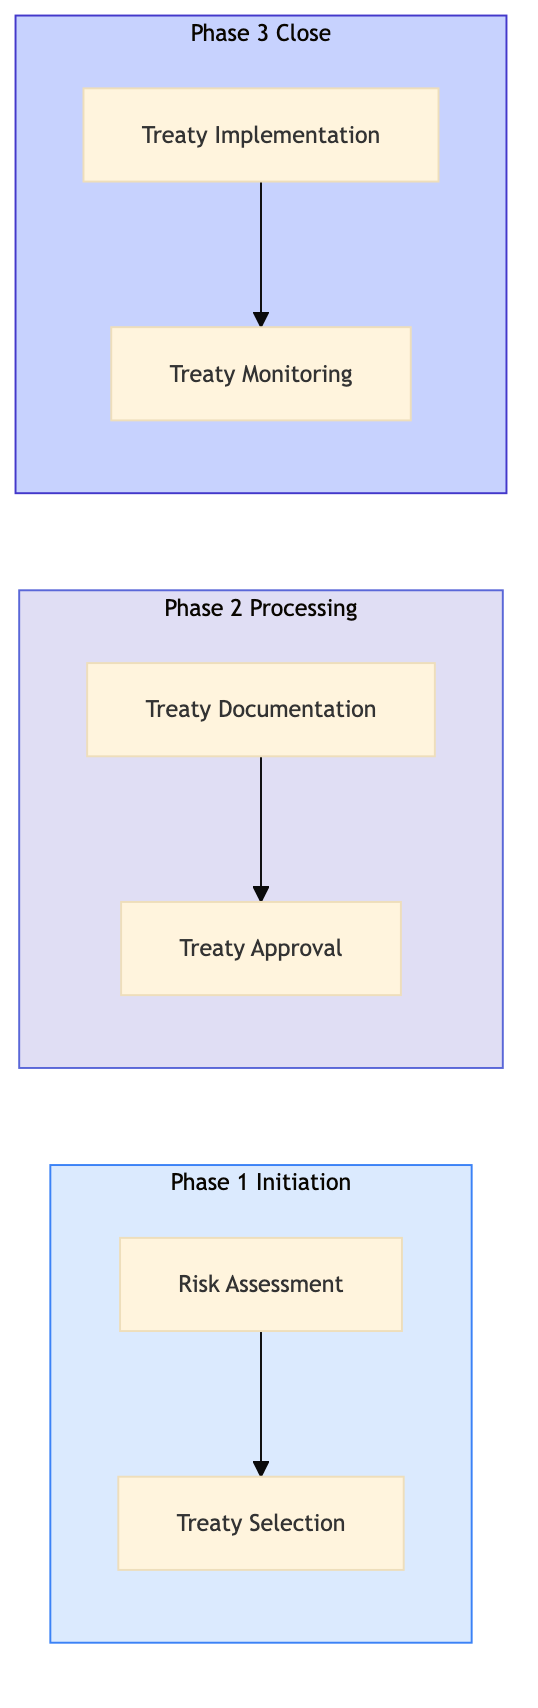
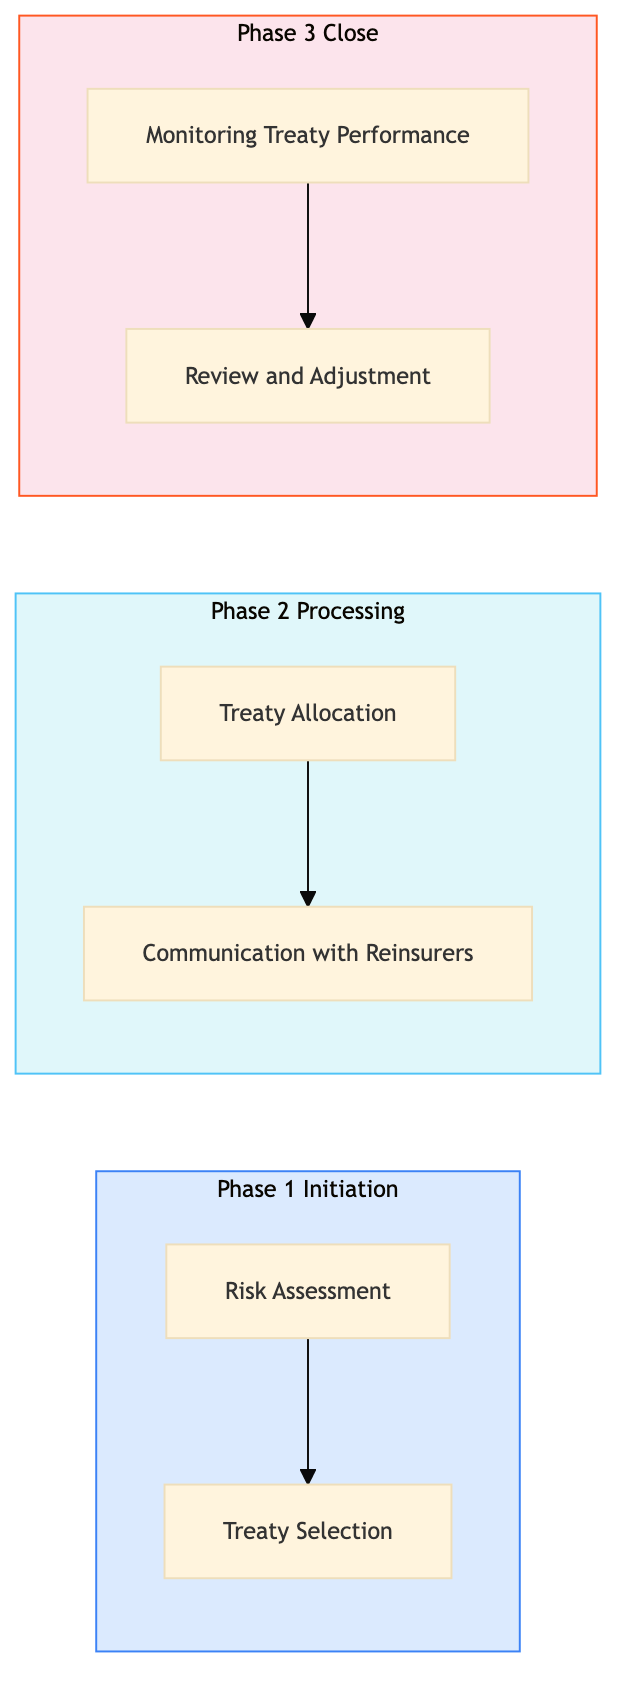
feat: add AAA-IN-PO-07 — Reinsurance Cession and Treaty Allocation

diff --git a/aaa-insurance/policy-administration/aaa-in-po-07.html b/aaa-insurance/policy-administration/aaa-in-po-07.html
@@ -23,40 +23,16 @@
     <div class="nav-l2-group">
       <a class="nav-l2-title" href="../../shared-membership/membership-enrolment/index.html">Membership Enrolment & Sales</a>
       <div class="nav-l3-list">
-        <a class="nav-l3" href="../../shared-membership/membership-enrolment/shared-mb-en-01.html">SHARED-MB-EN-01 &mdash; New Member Walk-In Enrolment (Branch)</a>
-        <a class="nav-l3" href="../../shared-membership/membership-enrolment/shared-mb-en-02.html">SHARED-MB-EN-02 &mdash; Online Membership Self-Enrolment (Web/Ap</a>
-        <a class="nav-l3" href="../../shared-membership/membership-enrolment/shared-mb-en-03.html">SHARED-MB-EN-03 &mdash; Phone Enrolment via Contact Centre</a>
-        <a class="nav-l3" href="../../shared-membership/membership-enrolment/shared-mb-en-04.html">SHARED-MB-EN-04 &mdash; Affiliate and Employer Group Enrolment</a>
-        <a class="nav-l3" href="../../shared-membership/membership-enrolment/shared-mb-en-05.html">SHARED-MB-EN-05 &mdash; Membership Tier Selection and Upsell</a>
-        <a class="nav-l3" href="../../shared-membership/membership-enrolment/shared-mb-en-06.html">SHARED-MB-EN-06 &mdash; Payment Processing and First-Year Billin</a>
-        <a class="nav-l3" href="../../shared-membership/membership-enrolment/shared-mb-en-07.html">SHARED-MB-EN-07 &mdash; Welcome Kit and Digital Card Issuance</a>
-        <a class="nav-l3" href="../../shared-membership/membership-enrolment/shared-mb-en-08.html">SHARED-MB-EN-08 &mdash; Duplicate Member Detection and Merge</a>
       </div>
     </div>
     <div class="nav-l2-group">
       <a class="nav-l2-title" href="../../shared-membership/membership-renewal/index.html">Membership Renewal & Retention</a>
       <div class="nav-l3-list">
-        <a class="nav-l3" href="../../shared-membership/membership-renewal/shared-mb-rn-01.html">SHARED-MB-RN-01 &mdash; Annual Renewal Notice Generation and Dis</a>
-        <a class="nav-l3" href="../../shared-membership/membership-renewal/shared-mb-rn-02.html">SHARED-MB-RN-02 &mdash; Auto-Renewal Processing (Credit Card on </a>
-        <a class="nav-l3" href="../../shared-membership/membership-renewal/shared-mb-rn-03.html">SHARED-MB-RN-03 &mdash; Lapsed Member Reinstatement Campaign</a>
-        <a class="nav-l3" href="../../shared-membership/membership-renewal/shared-mb-rn-04.html">SHARED-MB-RN-04 &mdash; Membership Upgrade and Tier Change Proce</a>
-        <a class="nav-l3" href="../../shared-membership/membership-renewal/shared-mb-rn-05.html">SHARED-MB-RN-05 &mdash; Associate and Household Member Add-On Pr</a>
-        <a class="nav-l3" href="../../shared-membership/membership-renewal/shared-mb-rn-06.html">SHARED-MB-RN-06 &mdash; Cancellation Request Handling and Save O</a>
-        <a class="nav-l3" href="../../shared-membership/membership-renewal/shared-mb-rn-07.html">SHARED-MB-RN-07 &mdash; Renewal Rate Review and Pricing Update</a>
-        <a class="nav-l3" href="../../shared-membership/membership-renewal/shared-mb-rn-08.html">SHARED-MB-RN-08 &mdash; Membership Winback Campaign (12-36 Month</a>
       </div>
     </div>
     <div class="nav-l2-group">
       <a class="nav-l2-title" href="../../shared-membership/member-services/index.html">Member Services & Benefits</a>
       <div class="nav-l3-list">
-        <a class="nav-l3" href="../../shared-membership/member-services/shared-mb-sv-01.html">SHARED-MB-SV-01 &mdash; Member Discount Partner Redemption</a>
-        <a class="nav-l3" href="../../shared-membership/member-services/shared-mb-sv-02.html">SHARED-MB-SV-02 &mdash; Passport Photo Service Delivery (Branch)</a>
-        <a class="nav-l3" href="../../shared-membership/member-services/shared-mb-sv-03.html">SHARED-MB-SV-03 &mdash; International Driving Permit (IDP) Proce</a>
-        <a class="nav-l3" href="../../shared-membership/member-services/shared-mb-sv-04.html">SHARED-MB-SV-04 &mdash; Notary and Document Authentication Servi</a>
-        <a class="nav-l3" href="../../shared-membership/member-services/shared-mb-sv-05.html">SHARED-MB-SV-05 &mdash; Member Portal Profile and Preferences Ma</a>
-        <a class="nav-l3" href="../../shared-membership/member-services/shared-mb-sv-06.html">SHARED-MB-SV-06 &mdash; Lost and Stolen Membership Card Replacem</a>
-        <a class="nav-l3" href="../../shared-membership/member-services/shared-mb-sv-07.html">SHARED-MB-SV-07 &mdash; Member Data Privacy Request (CCPA and PI</a>
-        <a class="nav-l3" href="../../shared-membership/member-services/shared-mb-sv-08.html">SHARED-MB-SV-08 &mdash; Member Satisfaction Survey and NPS Track</a>
       </div>
     </div>
   </div>
@@ -294,7 +270,7 @@
           <span class="pid-badge org-badge-aaa">AAA</span>
           AAA-IN-PO-07 &mdash; Reinsurance Cession and Treaty Allocation
         </h1>
-        <p>The process for reinsurance cession and treaty allocation involves evaluating policy risk exposure, determining the appropriate reinsurance coverage, and managing the reinsurance treaties within AAA Northeast.</p>
+        <p>The process for reinsurance cession and treaty allocation involves the identification of insurance policies that require reinsurance, negotiation with reinsurers, and management of treaty allocations. This ensures risk is appropriately distributed among insurers.</p>
       </div>
 
       <!-- BPMN Diagram -->
@@ -320,10 +296,10 @@
             <tr><th>L1 Domain</th><td>AAA Insurance</td></tr>
             <tr><th>L2 Process</th><td>Policy Administration</td></tr>
             <tr><th>L3 Name</th><td>Reinsurance Cession and Treaty Allocation</td></tr>
-            <tr><th>Trigger</th><td>Initiated by a Licensed Insurance Agent upon underwriting new policies or reviewing existing policies for potential reinsurance needs.</td></tr>
-            <tr><th>Outcome</th><td>Successful completion results in the proper allocation of reinsurance treaties, ensuring risk is appropriately managed and compliance with state DOI regulations is maintained.</td></tr>
-            <tr><th>Org Notes</th><td>AAA Northeast may have specific regional guidelines for treaty allocation that differ from other AAA regions. Additionally, the use of Guidewire Cloud ensures consistent data management across all policies.</td></tr>
-            <tr><th>Systems</th><td><span class="sys-tag guidewire">Guidewire PolicyCenter</span> <span class="sys-tag salesforce">Salesforce</span> <span class="sys-tag sabre">Sabre GDS</span> <span class="sys-tag verisk">Verisk ISO rating</span></td></tr>
+            <tr><th>Trigger</th><td>Identification of high-risk or large-value insurance policies by the Risk Management team.</td></tr>
+            <tr><th>Outcome</th><td>Successful completion results in the allocation of reinsurance treaties to cover identified risks, reducing AAA Northeast's exposure and ensuring compliance with regulatory requirements.</td></tr>
+            <tr><th>Org Notes</th><td>AAA Northeast focuses on direct policy management and risk assessment, while CAA SCO may have additional emphasis on telematics data integration for risk evaluation.</td></tr>
+            <tr><th>Systems</th><td><span class="sys-tag guidewire">Guidewire PolicyCenter</span> <span class="sys-tag salesforce">Salesforce</span> <span class="sys-tag sabre">Sabre</span> <span class="sys-tag verisk">Verisk</span></td></tr>
           </table>
         </div>
       </div>
@@ -345,72 +321,72 @@
         <tr>
           <td class="step-num">1.1</td>
           <td>Risk Assessment</td>
-          <td>Underwriting Analyst</td>
+          <td>Risk Analyst</td>
           <td><span class="sys-tag guidewire">Guidewire PolicyCenter</span></td>
-          <td>New policy details</td>
-          <td>Risk assessment report</td>
-          <td>Time to complete risk assessment < 2 hours</td>
-          <td>Complex policies require extensive manual review</td>
-          <td><span class="decision-y">Y</span></td>
+          <td>Policy details and exposure reports</td>
+          <td>High-risk policy list</td>
+          <td>Number of high-risk policies identified per month</td>
+          <td>Manual review of large datasets</td>
           <td>N</td>
+          <td><span class="exception-y">Y</span></td>
         </tr>
         <tr>
           <td class="step-num">1.2</td>
           <td>Treaty Selection</td>
           <td>Reinsurance Specialist</td>
-          <td><span class="sys-tag guidewire">Guidewire PolicyCenter</span></td>
-          <td>Risk assessment report</td>
-          <td>Selected reinsurance treaty</td>
-          <td>Number of treaties reviewed per day > 10</td>
-          <td>Inconsistent treaty selection criteria</td>
+          <td><span class="sys-tag guidewire">Guidewire PolicyCenter, Salesforce</span></td>
+          <td>High-risk policy list</td>
+          <td>Selected reinsurance treaties</td>
+          <td>Time to select treaties (in days)</td>
+          <td>Negotiating terms with multiple reinsurers</td>
           <td><span class="decision-y">Y</span></td>
           <td>N</td>
         </tr>
         <tr>
           <td class="step-num">2.1</td>
-          <td>Treaty Documentation</td>
+          <td>Treaty Allocation</td>
           <td>Reinsurance Specialist</td>
-          <td><span class="sys-tag guidewire">Guidewire PolicyCenter</span></td>
-          <td>Selected reinsurance treaty</td>
-          <td>Completed treaty documentation</td>
-          <td>Time to complete treaty documentation < 4 hours</td>
-          <td>Error in treaty documentation leading to delays</td>
+          <td><span class="sys-tag guidewire">Guidewire PolicyCenter, Salesforce</span></td>
+          <td>Selected reinsurance treaties</td>
+          <td>Allocated policies to reinsurers</td>
+          <td>Number of policies allocated per day</td>
+          <td>Data entry errors in treaty allocation</td>
           <td>N</td>
           <td><span class="exception-y">Y</span></td>
         </tr>
         <tr>
           <td class="step-num">2.2</td>
-          <td>Treaty Approval</td>
-          <td>Underwriting Manager</td>
-          <td><span class="sys-tag guidewire">Guidewire PolicyCenter</span></td>
-          <td>Completed treaty documentation</td>
-          <td>Approved reinsurance treaty</td>
-          <td>Approval time < 1 day</td>
-          <td>Delays in obtaining management approval</td>
+          <td>Communication with Reinsurers</td>
+          <td>Reinsurance Specialist</td>
+          <td><span class="sys-tag salesforce">Salesforce, Email</span></td>
+          <td>Allocated policies to reinsurers</td>
+          <td>Confirmation of treaty allocation</td>
+          <td>Response time from reinsurers (in hours)</td>
+          <td>Delays in communication with reinsurers</td>
           <td><span class="decision-y">Y</span></td>
           <td>N</td>
         </tr>
         <tr>
           <td class="step-num">3.1</td>
-          <td>Treaty Implementation</td>
-          <td>Reinsurance Specialist</td>
-          <td><span class="sys-tag guidewire">Guidewire PolicyCenter</span></td>
-          <td>Approved reinsurance treaty</td>
-          <td>Implemented reinsurance treaty in system</td>
-          <td>Time to implement treaty < 2 hours</td>
-          <td>System integration issues causing delays</td>
+          <td>Monitoring Treaty Performance</td>
+          <td>Risk Analyst</td>
+          <td><span class="sys-tag guidewire">Guidewire PolicyCenter, Salesforce</span></td>
+          <td>Allocated policies to reinsurers</td>
+          <td>Treaty performance reports</td>
+          <td>Number of performance reports generated per week</td>
+          <td>Real-time monitoring of treaty performance</td>
           <td>N</td>
           <td><span class="exception-y">Y</span></td>
         </tr>
         <tr>
           <td class="step-num">3.2</td>
-          <td>Treaty Monitoring</td>
+          <td>Review and Adjustment</td>
           <td>Reinsurance Specialist</td>
           <td><span class="sys-tag guidewire">Guidewire PolicyCenter, Salesforce</span></td>
-          <td>Implemented reinsurance treaty</td>
-          <td>Monitoring report</td>
-          <td>Weekly monitoring reports generated</td>
-          <td>Inaccurate data entry leading to incorrect monitoring</td>
+          <td>Treaty performance reports</td>
+          <td>Adjusted treaty allocations</td>
+          <td>Number of adjustments made per month</td>
+          <td>Dynamic adjustment of treaties based on performance</td>
           <td><span class="decision-y">Y</span></td>
           <td>N</td>
         </tr>
@@ -425,9 +401,9 @@
         <div class="card-header">&#x1F4CA; KPIs &amp; Risk Register</div>
         <div class="card-body">
           <p class="mb-8"><strong>KPIs</strong></p>
-          <div class="kpi-list mb-8"><span class="kpi-pill">Time to complete risk assessment < 2 hours</span> <span class="kpi-pill">Number of treaties reviewed per day > 10</span> <span class="kpi-pill">Time to complete treaty documentation < 4 hours</span> <span class="kpi-pill">Approval time < 1 day</span> <span class="kpi-pill">Time to implement treaty < 2 hours</span> <span class="kpi-pill">Weekly monitoring reports generated</span></div>
+          <div class="kpi-list mb-8"><span class="kpi-pill">Number of high-risk policies identified per month (target: 100)</span> <span class="kpi-pill">Time to select treaties (in days) (target: 5 days)</span> <span class="kpi-pill">Number of policies allocated per day (target: 20)</span> <span class="kpi-pill">Response time from reinsurers (in hours) (target: 4 hours)</span> <span class="kpi-pill">Number of performance reports generated per week (target: 10)</span></div>
           <p class="mb-8" style="margin-top:16px"><strong>Key Risks</strong></p>
-          <div class="kpi-list"><span class="risk-pill">Inconsistent risk assessment criteria leading to incorrect treaty selection</span> <span class="risk-pill">Delays in obtaining management approval for treaties</span> <span class="risk-pill">System integration issues causing delays in implementation</span> <span class="risk-pill">Errors in treaty documentation leading to compliance issues</span> <span class="risk-pill">Inaccurate data entry causing errors in monitoring reports</span></div>
+          <div class="kpi-list"><span class="risk-pill">Inaccurate risk assessment leading to underinsurance</span> <span class="risk-pill">Delays in treaty selection affecting policy coverage</span> <span class="risk-pill">Data entry errors in treaty allocation causing misallocations</span> <span class="risk-pill">Communication delays with reinsurers impacting treaty effectiveness</span> <span class="risk-pill">Failure to dynamically adjust treaties based on performance</span></div>
         </div>
       </div>
 

diff --git a/aaa-insurance/policy-administration/index.html b/aaa-insurance/policy-administration/index.html
@@ -61,6 +61,7 @@
         <a class="nav-l3" href="../../aaa-insurance/policy-administration/aaa-in-po-03.html">AAA-IN-PO-03 &mdash; Policy Renewal Processing and Rate Refre</a>
         <a class="nav-l3" href="../../aaa-insurance/policy-administration/aaa-in-po-04.html">AAA-IN-PO-04 &mdash; Non-Renewal and Cancellation Processing</a>
         <a class="nav-l3" href="../../aaa-insurance/policy-administration/aaa-in-po-05.html">AAA-IN-PO-05 &mdash; State DOI Filing and Rate Filing Complia</a>
+        <a class="nav-l3" href="../../aaa-insurance/policy-administration/aaa-in-po-06.html">AAA-IN-PO-06 &mdash; Lienholder and Mortgagee Certificate Iss</a>
       </div>
     </div>
     <div class="nav-l2-group">
@@ -262,7 +263,7 @@
           <a href="../index.html">AAA Insurance</a>
         </div>
         <h1>🛡 Policy Administration</h1>
-        <p>5 of 8 processes complete</p>
+        <p>6 of 8 processes complete</p>
       </div>
       <div class="card">
         <div class="card-header">Process List</div>
@@ -274,7 +275,7 @@
 <tr><td><a href="aaa-in-po-03.html">AAA-IN-PO-03</a></td><td>Policy Renewal Processing and Rate Refresh</td><td><span style="color:#16a34a;font-weight:700">&#x2705; Complete</span></td></tr>
 <tr><td><a href="aaa-in-po-04.html">AAA-IN-PO-04</a></td><td>Non-Renewal and Cancellation Processing</td><td><span style="color:#16a34a;font-weight:700">&#x2705; Complete</span></td></tr>
 <tr><td><a href="aaa-in-po-05.html">AAA-IN-PO-05</a></td><td>State DOI Filing and Rate Filing Compliance</td><td><span style="color:#16a34a;font-weight:700">&#x2705; Complete</span></td></tr>
-<tr><td>AAA-IN-PO-06</td><td>Lienholder and Mortgagee Certificate Issuance</td><td><span style="color:#94a3b8">&#x23F3; Queued</span></td></tr>
+<tr><td><a href="aaa-in-po-06.html">AAA-IN-PO-06</a></td><td>Lienholder and Mortgagee Certificate Issuance</td><td><span style="color:#16a34a;font-weight:700">&#x2705; Complete</span></td></tr>
 <tr><td>AAA-IN-PO-07</td><td>Reinsurance Cession and Treaty Allocation</td><td><span style="color:#94a3b8">&#x23F3; Queued</span></td></tr>
 <tr><td>AAA-IN-PO-08</td><td>Policy Document Delivery (Digital and Print)</td><td><span style="color:#94a3b8">&#x23F3; Queued</span></td></tr>
 </tbody>

diff --git a/index.html b/index.html
@@ -61,6 +61,7 @@
         <a class="nav-l3" href="aaa-insurance/policy-administration/aaa-in-po-03.html">AAA-IN-PO-03 &mdash; Policy Renewal Processing and Rate Refre</a>
         <a class="nav-l3" href="aaa-insurance/policy-administration/aaa-in-po-04.html">AAA-IN-PO-04 &mdash; Non-Renewal and Cancellation Processing</a>
         <a class="nav-l3" href="aaa-insurance/policy-administration/aaa-in-po-05.html">AAA-IN-PO-05 &mdash; State DOI Filing and Rate Filing Complia</a>
+        <a class="nav-l3" href="aaa-insurance/policy-administration/aaa-in-po-06.html">AAA-IN-PO-06 &mdash; Lienholder and Mortgagee Certificate Iss</a>
       </div>
     </div>
     <div class="nav-l2-group">
@@ -262,9 +263,9 @@
       </div>
 
       <div class="stats-bar">
-        <div class="stat-card"><div class="stat-num">15</div><div class="stat-label">Processes Complete</div></div>
+        <div class="stat-card"><div class="stat-num">16</div><div class="stat-label">Processes Complete</div></div>
         <div class="stat-card"><div class="stat-num">268</div><div class="stat-label">Total Processes</div></div>
-        <div class="stat-card"><div class="stat-num">15</div><div class="stat-label">AAA Complete</div></div>
+        <div class="stat-card"><div class="stat-num">16</div><div class="stat-label">AAA Complete</div></div>
         <div class="stat-card"><div class="stat-num caa-red">0</div><div class="stat-label">CAA Complete</div></div>
         <div class="stat-card"><div class="stat-num">0</div><div class="stat-label">Shared Complete</div></div>
       </div>
@@ -284,7 +285,7 @@
         <span class="nav-org-dot aaa" style="display:inline-block;margin-right:4px"></span>
         AAA
       </p>
-      <p class="card-count">15 / 34 processes complete</p>
+      <p class="card-count">16 / 34 processes complete</p>
     </div>
     <div class="domain-card org-caa">
       <h3><a href="caa-insurance/index.html">🍁 CAA Insurance (Ontario)</a></h3>

diff --git a/aaa-insurance/index.html b/aaa-insurance/index.html
@@ -61,6 +61,7 @@
         <a class="nav-l3" href="../aaa-insurance/policy-administration/aaa-in-po-03.html">AAA-IN-PO-03 &mdash; Policy Renewal Processing and Rate Refre</a>
         <a class="nav-l3" href="../aaa-insurance/policy-administration/aaa-in-po-04.html">AAA-IN-PO-04 &mdash; Non-Renewal and Cancellation Processing</a>
         <a class="nav-l3" href="../aaa-insurance/policy-administration/aaa-in-po-05.html">AAA-IN-PO-05 &mdash; State DOI Filing and Rate Filing Complia</a>
+        <a class="nav-l3" href="../aaa-insurance/policy-administration/aaa-in-po-06.html">AAA-IN-PO-06 &mdash; Lienholder and Mortgagee Certificate Iss</a>
       </div>
     </div>
     <div class="nav-l2-group">
@@ -259,7 +260,7 @@
       <div class="page-header">
         <div class="breadcrumb"><a href="../index.html">Home</a></div>
         <h1>🛡 AAA Insurance</h1>
-        <p>15 of 34 processes complete across 4 process groups</p>
+        <p>16 of 34 processes complete across 4 process groups</p>
       </div>
       <div class="domain-grid">    <div class="domain-card org-aaa">
       <h3><a href="insurance-quoting/index.html">Quoting & Underwriting</a></h3>
@@ -267,7 +268,7 @@
     </div>
     <div class="domain-card org-aaa">
       <h3><a href="policy-administration/index.html">Policy Administration</a></h3>
-      <p class="card-meta">5/8 processes complete</p>
+      <p class="card-meta">6/8 processes complete</p>
     </div>
     <div class="domain-card org-aaa">
       <h3><a href="insurance-billing/index.html">Billing & Premium Management</a></h3>
